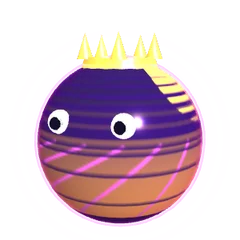
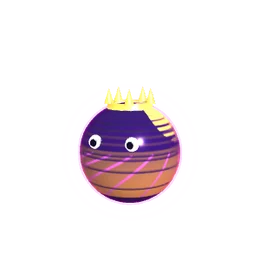
kapli-3d-test: v413 news poster, Кибер-сетка retired, no antennae on Неон and Глитч
Claude-Session: https://claude.ai/code/session_01BGg67QGFc2pPgh9iksJ3Cf

diff --git a/kapli-3d-test/js/game/08-menus.js b/kapli-3d-test/js/game/08-menus.js
@@ -88,7 +88,7 @@
     tutModal(title, body, done && !save.tourSeen ? [['tourGo', 'Дальше: тур по меню', 'btn'], ['tutOk', 'Пропустить тур', 'btn ghost']] : [['tutOk', 'В меню', 'btn']]);
   }
   function tutModal(title, body, btns) {
-    $('tutMName').textContent = title; $('tutMBody').innerHTML = body;
+    $('tutMName').textContent = title; $('tutMBody').innerHTML = body; $('tutModal').classList.remove('nw-wide');
     $('tutMActs').innerHTML = btns.map(([id, t, cls]) => `<button class="${cls}" id="${id}">${t}</button>`).join('');
     $('tutModal').hidden = false; $(btns[0][0]).focus();
   }
@@ -157,33 +157,49 @@
   const NEWS = [
     // 2.7: the first entry with cards — a hero card and a grid; each card opens big (newsBig). Older entries stay text in «Архив обновлений».
     { id: 200, ver: '2.7.0', date: '24 ноября', title: 'Характеры и живая арена', kind: 'season',
-      lead: 'Выбирай характер, переживи события арены и опробуй обновлённые скины.',
-      hero: { imgs: ['neon', 'h_valentine', 's_7', 'h_halloween', 's_25'], body: '<p>Самое большое обновление осени: характеры перед раундом, восемь событий арены, новый Случайный билд и Босс-рейд, переработанные способности, игра вдвоём по ссылке, обновлённые скины, рамки и титулы — и заметно плавнее на телефонах.</p><p>Листай карточки или открой любую, чтобы прочитать подробнее.</p>' },
+      lead: 'Характеры, события арены, игра вдвоём через интернет, эволюции скинов и новый вид меню.',
+      poster: { sub: 'Характеры · живая арена · вдвоём через интернет · эволюции скинов', foot: 'Ниже — все 16 изменений по группам',
+        tiles: [[0, '#22e6ff', 'chars', 'Характеры', 'Выбери характер перед раундом: у каждого плюс и минус'], [1, '#ff4fd8', 'events', 'Живая арена', 'Восемь событий меняют раунд прямо на ходу'],
+          [8, '#ffd23f', 'online', 'Вдвоём через интернет', '«Захват территории» и «Спина к спине» на любом расстоянии'], [9, '#b26bff', 'evo', 'Эволюции скинов', 'Скины растут в формах I–III прямо в раунде'],
+          [4, '#3dffa2', 'modes', 'Режимы обновлены', 'Классика, Хардкор, Случайный билд и Босс-рейд'], [15, '#ff9a3d', 'fps', 'Плавнее', 'Меньше рывков на телефонах — картинка та же']] },
+      hero: { imgs: ['neon', 'h_valentine', 's_7', 'h_halloween', 's_25'], body: '<p>Самое большое обновление осени. Перед раундом выбираешь характер, на арене случаются события, обновлены Классика, Хардкор, Случайный билд и Босс-рейд, режимы для двоих теперь работают через интернет. Скины растут в формах прямо в раунде, многие получили новый облик, рамки стали объёмными, титулы — лентами, вкладки перекомпонованы — и игра заметно плавнее на телефонах.</p><p>Листай карточки или открой любую, чтобы прочитать подробнее.</p>' },
       cards: [
-        { t: 'Характеры', l: 'Перед раундом выбери, каким будешь: у каждого свой плюс и минус.', v: 'chars',
+        { g: 'Игра', t: 'Характеры', l: 'Перед раундом выбери, каким будешь: у каждого свой плюс и минус.', v: 'chars',
           b: '<p>Перед каждым одиночным раундом открывается окно выбора характера.</p><ul><li><b>Хищник</b> — съеденные боты и боссы дают +15%, но таешь на 10% быстрее.</li><li><b>Собиратель</b> — крошки +30% и притягиваются издалека, боты дают −15%.</li><li><b>Танк</b> (с 10 уровня) — съесть тебя можно только будучи крупнее в 1,4 раза, но ты на 8% медленнее.</li><li><b>Призрак</b> (с 15) — боты замечают тебя вдвое позже, масса растёт на 10% медленнее.</li><li><b>Берсерк</b> (с 20) — перезарядка −15%, но щит и бонусы короче на 25%.</li></ul><p>В рейтинговых играх характеров нет.</p>' },
-        { t: 'События арены', l: 'Восемь событий меняют раунд прямо на ходу.', v: 'events',
+        { g: 'Игра', t: 'События арены', l: 'Восемь событий меняют раунд прямо на ходу.', v: 'events',
           b: '<p>О событии предупреждают заранее, а на мини-карте видно, где оно.</p><ul><li><b>Звездопад</b> — метеоры в отмеченной зоне, между ними золотые капли.</li><li><b>Разлом</b> — тянет к центру, касание центра отнимает 10% массы.</li><li><b>Ветер</b> — сносит всех в одну сторону.</li><li><b>Затмение</b> — темно, мини-карта гаснет, боты видят вдвое ближе.</li><li><b>Золотая капля</b> — убегает по полю, поймай за монеты.</li><li><b>Монетный дождь</b> — монеты сразу за каждого съеденного.</li><li><b>Землетрясение</b> — край арены горит, снаружи кольца масса тает.</li><li><b>Награда за голову</b> — самая крупная капля помечена.</li></ul>' },
-        { t: 'Случайный билд', l: 'На вехах — пауза и две карточки замены с редкостью.', v: 'rb',
-          b: '<p>На вехах массы игра встаёт на паузу и предлагает две карточки: можно заменить одну из способностей. Карточки бывают обычные, редкие, эпические и легендарные — чем реже, тем сильнее.</p>' },
-        { t: 'Босс-рейд', l: 'Пять ступеней сложности и пара колоссов-близнецов.', v: 'raid',
-          b: '<p>Перед стартом выбери ступень от I до V. Колоссы атакуют волнами, рывками и взрывами, у колосса недели — особая атака. За ступень V — титул «Гроза колоссов».</p>' },
-        { t: 'Способности', l: 'Две новые и честный баланс остальных.', v: 'abil',
-          b: '<ul><li><b>Метка</b> вместо Скачка: первое нажатие ставит метку, второе в течение 10 с переносит к ней.</li><li><b>Засада</b> вместо Маскировки: ешь капли при меньшем перевесе и получаешь больше массы.</li><li>Насыщение и Сжатие переработаны, сильные способности урезаны, слабые усилены.</li></ul>' },
-        { t: 'Вдвоём онлайн', l: 'Комната по ссылке и плавное движение соперника.', v: 'online',
-          b: '<ul><li>Код комнаты можно отправить ссылкой — по ней друг сразу попадает в комнату.</li><li>Движение второго игрока сглажено, связь сама восстанавливается.</li><li>Исправлены ник в таблице, таймер щита и вечная неуязвимость в «Захвате территории».</li></ul>' },
-        { t: 'Пауза с бафами', l: 'На паузе видно, какие улучшения ты выбрал.', v: 'pause',
-          b: '<p>В меню паузы появился блок «Твои бафы»: выбранные в раунде карточки и когда ты их взял, минусы отмечены отдельно. Бафы скорости теперь действительно ускоряют.</p>' },
-        { t: 'Обновлённые скины', l: 'Скины переделаны, годовые — с живой анимацией.', v: 'skins',
+        { g: 'Игра', t: 'Способности', l: 'Две новые и честный баланс остальных.', v: 'abil',
+          b: '<ul><li><b>Метка</b> вместо Скачка: первое нажатие ставит метку, второе в течение 10 с переносит к ней.</li><li><b>Засада</b> вместо Маскировки: ешь капли при меньшем перевесе и получаешь больше массы.</li><li>Насыщение и Сжатие переработаны, сильные способности урезаны, слабые усилены.</li><li>Купленные способности — компактной сеткой плиток.</li></ul>' },
+        { g: 'Игра', t: 'Рост и скорость', l: 'Все капли быстрее, большие растут медленнее.', v: 'grow',
+          b: '<ul><li>Все капли во всех режимах на 35% быстрее.</li><li>С 10 000 массы капля растёт медленнее и в размере, и в массе (кроме Хардкора и Босс-рейда) — большая игра стала дольше и интереснее.</li><li>Намного более тяжёлой капле достаточно накрыть центр меньшей, чтобы её съесть.</li><li>Шипы уходят с поля после 10 000, замедления стали короче.</li></ul>' },
+        { g: 'Режимы', t: 'Классика', l: 'На 50 000 капля делится — вырасти обе половины.', v: 'classic',
+          b: '<p>Классика стала сложнее и интереснее: вехи массы с наградой, боссы растут вслед за тобой, боты смелее. На 50 000 капля делится на две половины — цель вырастить обе. Капля, потерявшая половину, снова делится, когда опять дорастёт до 50 000.</p>' },
+        { g: 'Режимы', t: 'Хардкор', l: 'Двойной укус, проклятия, стаи и новые награды.', v: 'hc',
+          b: '<ul><li>Победа — удержать обе половины на 50 000 в течение 15 секунд.</li><li><b>Двойной укус</b>: две половины вместе съедают босса и делят его массу.</li><li>Проклятия раз в минуту-полторы, стаи ботов, на вехах — карточки улучшений с риском.</li><li>Стая, укусив тебя, 2,5 с не кусает снова.</li><li>Новые награды: значки лестницы 75K и 88K и фон «Трон затмения».</li></ul>' },
+        { g: 'Режимы', t: 'Случайный билд — обновлён', l: 'На вехах — пауза и две карточки замены с редкостью.', v: 'rb',
+          b: '<p>Раньше билд выпадал один раз на раунд. Теперь на пяти вехах массы игра встаёт на паузу и предлагает две карточки — можно заменить одну из способностей. Карточки бывают обычные, редкие, эпические и легендарные: чем реже, тем больше уровней на этот раунд.</p>' },
+        { g: 'Режимы', t: 'Босс-рейд — обновлён', l: 'Недельная лестница из пяти ступеней и пара колоссов.', v: 'raid',
+          b: '<p>Вместо трёх попыток в день — недельная лестница: перед стартом выбери ступень от I до V. Колоссы-близнецы с тремя фазами, атаки видно заранее, у колосса недели — особая атака. За ступень V — титул «Гроза колоссов».</p>' },
+        { g: 'Вдвоём', t: 'Вдвоём через интернет', l: '«Захват территории» и «Спина к спине» — на любом расстоянии.', v: 'online',
+          b: '<ul><li>Режимы для двоих работают через сервер игры: можно играть с другом в другом городе.</li><li>Код комнаты можно отправить ссылкой — по ней друг сразу попадает в комнату.</li><li>Движение второго игрока сглажено, связь сама восстанавливается, «Выход» завершает матч у обоих.</li><li>«Захват территории»: поле меньше, боты медленнее, крошек больше.</li></ul>' },
+        { g: 'Коллекция', t: 'Эволюции скинов', l: 'Семь скинов растут в формах I–III прямо в раунде.', v: 'evo',
+          b: '<p>Скины с эволюцией меняют форму, когда ты выполняешь цель: прямо в раунде — вспышка, кольца и звук, потом окно «Эволюция!». Любую открытую форму можно надеть в гардеробе. Живые фоны профиля «Арена Берсерка», «Двойная спираль» и «Пятидесятая волна» растут вместе со своими скинами. Скины с эволюцией отмечены значком ДНК.</p>' },
+        { g: 'Коллекция', t: 'Обновлённые скины', l: 'Новый облик, годовые — с живой анимацией.', v: 'skins',
           b: '<p>Многие скины получили новый облик. «Королева сердец», «Тыквенный король», «Пульсар» и «Вулкан» анимированы целиком: плывут сердца, мерцает свеча, бегут лучи, течёт лава. Новые скины: «Мятная капля» для новичков, «Ягодный пончик», «Аквариум», «Обсидиан» и «Охотник на боссов». Если у тебя был переделанный скин — он остался у тебя в новом виде.</p>' },
-        { t: 'Рамки и титулы', l: 'Меньше, но ценнее: объёмные рамки и титулы-ленты.', v: 'deco',
-          b: '<p>Рамки стали объёмными, как стекло, а титулы — наградными лентами под ником. Похожие награды объединены: если у тебя была убранная рамка или титул, ты получил ближайшую оставшуюся (а если она уже была — монеты).</p>' },
-        { t: 'Плавнее на телефонах', l: 'Меньше рывков даже при огромной массе.', v: 'fps',
-          b: '<p>Мы переработали отрисовку арены: одинаковые детали рисуются за один раз, шейдеры готовятся до начала раунда, игра реже останавливается на уборку памяти. Картинка та же, рывков заметно меньше.</p>' },
+        { g: 'Коллекция', t: 'Рамки и титулы', l: 'Меньше, но ценнее: объёмные рамки и титулы-ленты.', v: 'deco',
+          b: '<p>Рамки стали объёмными, как стекло, а титулы — наградными лентами. Похожие награды объединены: если у тебя была убранная рамка или титул, ты получил ближайшую оставшуюся (а если она уже была — монеты). «Мастер оружия» теперь дают за 5-й уровень всех обычных способностей.</p>' },
+        { g: 'Коллекция', t: 'Хронос 2.0', l: 'Мастерская: 23 предмета и легендарный «Скелетон».', v: 'gear',
+          b: '<p>Серия Мастерской «Хронос» собрана заново: 23 предмета вместо прежнего набора, шестерёнки сцепляются, песочные часы переворачиваются. «Скелетон» стал легендарным скином с эволюцией. Предметы, которые больше не создаются, остаются у тех, кто успел.</p>' },
+        { g: 'Меню', t: 'Вкладки и меню', l: 'Перекомпоновка экранов, группы и одна иконка на вещь.', v: 'tabs',
+          b: '<ul><li>Четыре экрана перекомпонованы, исправлены ошибки и устаревшие тексты, обновлена справка.</li><li>Профиль, гардероб и питомцы: вместо стопки ящиков — ряд групп-кнопок, плитки компактнее.</li><li>Одна иконка на каждую вещь — в магазине, гардеробе и коллекциях; арена везде стадион.</li><li>Обновления — карточками, старые версии в архиве.</li></ul>' },
+        { g: 'Меню', t: 'Пауза с бафами', l: 'На паузе видно, какие улучшения ты выбрал.', v: 'pause',
+          b: '<p>В меню паузы появился блок «Твои бафы»: выбранные в раунде карточки и когда ты их взял, минусы отмечены отдельно. Бафы скорости теперь действительно ускоряют.</p>' },
+        { g: 'Техника', t: 'Плавнее на телефонах', l: 'Меньше рывков даже при огромной массе.', v: 'fps',
+          b: '<p>Отрисовка арены переработана: одинаковые детали рисуются за один раз, шейдеры готовятся до начала раунда, игра реже останавливается на уборку памяти. Картинка та же, рывков заметно меньше.</p>' },
       ],
-      items: ['Характеры перед одиночным раундом: Хищник, Собиратель, Танк, Призрак, Берсерк.', 'Восемь событий арены.', 'Случайный билд: карточки замены с редкостью на вехах.', 'Босс-рейд: пять ступеней и пара колоссов.',
-        'Способности: Метка вместо Скачка, Засада вместо Маскировки, баланс остальных.', 'Вдвоём онлайн: комната по ссылке, плавное движение.', 'Пауза показывает выбранные бафы.', 'Обновлённые и новые скины, годовые — с живой анимацией.',
-        'Рамки «Стекло», титулы-ленты; похожие награды объединены.', 'Плавнее на телефонах.'] },
+      items: ['Характеры перед одиночным раундом.', 'Восемь событий арены.', 'Способности: Метка, Засада, баланс.', 'Все капли быстрее, большие растут медленнее.', 'Классика: деление на 50 000.', 'Хардкор: двойной укус, проклятия, стаи, награды лестницы.',
+        'Случайный билд обновлён: замена на вехах с редкостью.', 'Босс-рейд обновлён: недельная лестница из пяти ступеней.', 'Режимы для двоих через интернет, комната по ссылке.', 'Эволюции скинов I–III в раунде.', 'Обновлённые и новые скины.',
+        'Рамки «Стекло», титулы-ленты.', 'Хронос 2.0: 23 предмета, «Скелетон».', 'Вкладки перекомпонованы, одна иконка на вещь.', 'Пауза с бафами.', 'Плавнее на телефонах.'] },
     { id: 189, ver: '2.5.0', date: '14 ноября', title: 'Вдвоём: «Захват территории» и «Спина к спине», обновлённые режимы', kind: 'season',
       lead: 'Два режима для двоих на двух телефонах и большая переработка старых режимов: у каждого теперь своя цель внутри раунда.', items: [
       '«Захват территории» вместо «Испытания дня»: поле поделено границей, ешь ботов на своей половине — граница ползёт к тому, кто легче. 4 минуты, досрочная победа при 80% поля.',
@@ -413,14 +429,24 @@
     pause: () => `<div class="nw-v nw-pause"><span class="hd">⏸ Твои бафы</span><span>Скорость +6%</span><span>Магнит +10%</span><span class="ep">Хищник +18%</span><span class="bad">Вязкость −5%</span></div>`,
     skins: () => `<div class="nw-v nw-skins">${['h_valentine', 's_7', 'h_halloween'].map(f => `<img src="news/27_${f}.webp" alt="" loading="lazy">`).join('')}</div>`,
     deco: () => `<div class="nw-v nw-deco"><span class="fr fn fr-l" style="--a:#22e6ff;--b:#b26bff">Капля</span>${titleTag('tt_sk13')}</div>`,
+    grow: () => `<div class="nw-v nw-grow"><span style="--s:14"></span><span style="--s:22"></span><span style="--s:30"></span><em>×1,35 скорость</em></div>`,
+    classic: () => `<div class="nw-v nw-classic"><span>25 000</span><b>+</b><span>25 000</span><em>цель: обе по 50 000</em></div>`,
+    hc: () => `<div class="nw-v nw-hc"><span>75K</span><span>88K</span><span class="win">100K</span><em>☠ двойной укус</em></div>`,
+    evo: () => `<div class="nw-v nw-evo"><span style="--s:18">I</span><b>→</b><span style="--s:26">II</span><b>→</b><span style="--s:34">III</span></div>`,
+    gear: () => `<div class="nw-v nw-gear"><span>⚙</span><span class="sm">⚙</span><em>23 предмета</em></div>`,
+    modes: () => `<div class="nw-v nw-modes"><span>Классика</span><span>Хардкор</span><span>Случ. билд</span><span>Босс-рейд</span></div>`,
+    tabs: () => `<div class="nw-v nw-tabs"><span class="on">Скины</span><span>Питомцы</span><span>Рамки</span><span>Титулы</span><span>Фоны</span></div>`,
     fps: () => `<div class="nw-v nw-fps"><span style="--h:92"><small>было</small></span><span style="--h:38" class="now"><small>стало</small></span><em>рывков меньше</em></div>`,
   };
   let nwCur = null, nwI = 0, nwBack = null;
   function newsCards(n) {
     nwCur = n;
-    const hero = `<button type="button" class="nw-hero" data-nw="-1" aria-haspopup="dialog"><div class="nw-v nw-skins nw-wide">${n.hero.imgs.map(f => `<img src="news/27_${f}.webp" alt="" loading="lazy">`).join('')}</div>` +
-      `<div class="nw-ht"><span class="nw-tag">${n.ver} · ${NEWS_KIND[n.kind || 'update'][1].replace(/^\S+\s/, '')} · ${n.date}</span><b>${n.title}</b><span>${n.lead}</span></div></button>`;
-    return hero + `<div class="nw-grid">${n.cards.map((c, i) => `<button type="button" class="nw-card" data-nw="${i}" aria-haspopup="dialog">${NW_VIS[c.v]()}<span class="nw-ct">${c.t}</span><span class="nw-cl">${c.l}</span></button>`).join('')}</div>` +
+    // 2.7: the main card is a poster (owner's reference): the logo, the version, a line of highlights, six neon tiles that open their cards, a footer
+    const P = n.poster, hero = `<section class="nw-poster" aria-label="Обновление ${n.ver}"><div class="nw-ph"><b class="nw-logo">Капли <i>3D</i></b><span class="nw-pill">Обновление ${n.ver}</span></div>` +
+      `<p class="nw-psub">${P.sub}</p><div class="nw-tiles">${P.tiles.map(([i, col, vis, t, l]) => `<button type="button" class="nw-tile" style="--c:${col}" data-nw="${i}" aria-haspopup="dialog"><b>${t}</b><span>${l}</span>${NW_VIS[vis]()}</button>`).join('')}</div>` +
+      `<div class="nw-pf"><span>${P.foot}</span><button type="button" data-nw="-1">Обзор обновления ›</button></div></section>`;
+    const groups = [...new Set(n.cards.map(c => c.g || ''))];
+    return hero + groups.map(g => (g ? `<h4 class="nw-g">${g}</h4>` : '') + `<div class="nw-grid">${n.cards.map((c, i) => (c.g || '') !== g ? '' : `<button type="button" class="nw-card" data-nw="${i}" aria-haspopup="dialog">${NW_VIS[c.v]()}<span class="nw-ct">${c.t}</span><span class="nw-cl">${c.l}</span></button>`).join('')}</div>`).join('') +
       (newsGift(n) ? `<p class="news-gift">🎁 Подарок: ${newsGift(n)} ◆</p>` : '');
   }
   function newsBig(i) {
@@ -428,7 +454,7 @@
     let ov = $('nwOv'); if (!ov) { ov = document.createElement('div'); ov.id = 'nwOv'; ov.className = 'nw-ov'; ov.hidden = true; ov.innerHTML = '<div class="nw-big" id="nwBig" role="dialog" aria-modal="true" aria-labelledby="nwBt"></div>'; document.body.appendChild(ov); }
     nwI = i; const hero = i < 0, c = hero ? { t: `${n.ver} — ${n.title}`, l: n.lead, b: n.hero.body } : n.cards[i], N = n.cards.length;
     const vis = hero ? `<div class="nw-v nw-skins nw-wide">${n.hero.imgs.map(f => `<img src="news/27_${f}.webp" alt="">`).join('')}</div>` : NW_VIS[c.v]();
-    $('nwBig').innerHTML = vis + `<h2 id="nwBt">${c.t}</h2><p class="nw-bl">${c.l}</p><div class="nw-bb">${c.b}</div>` +
+    $('nwBig').innerHTML = vis + `<div class="nw-txt"><h2 id="nwBt">${c.t}</h2><p class="nw-bl">${c.l}</p><div class="nw-bb">${c.b}</div></div>` +
       `<div class="nw-nav"><button type="button" data-nwgo="-1" aria-label="Предыдущая карточка">‹</button><span>${hero ? 'обзор' : (i + 1) + ' из ' + N}</span><button type="button" data-nwgo="1" aria-label="Следующая карточка">›</button><button type="button" class="nw-x" data-nwx>Закрыть</button></div>`;
     ov.hidden = false; $('nwBig').scrollTop = 0; $('nwBig').querySelector('[data-nwx]').focus();
   }
@@ -471,7 +497,7 @@
   function openNews(onlyNew) {
     const list = onlyNew ? newsUnseen() : NEWS;
     tutModal(onlyNew ? 'Что нового' : 'Обновления', newsHtml(list), onlyNew ? [['newsOk', 'Понятно', 'btn'], ['newsAll', 'Все обновления', 'btn ghost']] : [['newsOk', 'Закрыть', 'btn']]);
-    $('tutMBody').scrollTop = 0;
+    $('tutModal').classList.add('nw-wide'); $('tutMBody').scrollTop = 0; $('tutModal').querySelector('.modal-card').scrollTop = 0;   // the button's focus scrolled the window to its end
   }
   $('newsBtn').addEventListener('click', () => { const fresh = newsUnseen().length; openNews(false); if (fresh) newsMarkSeen(); });
   $('tutModal').addEventListener('click', e => {

diff --git a/kapli-3d-test/css/04-features.css b/kapli-3d-test/css/04-features.css
@@ -790,3 +790,48 @@ body.raid-ink #stage { filter: brightness(.45) saturate(.7); transition: filter 
 .nw-bb { font-size: .92rem; color: #ddd8f8; } .nw-bb ul { padding-left: 18px; display: grid; gap: 5px; margin: 6px 0; } .nw-bb p { margin: 0 0 8px; }
 .nw-nav { display: flex; gap: 8px; align-items: center; } .nw-nav button { font: 700 .85rem/1 var(--body); color: #ece8ff; background: #1d1242; border: 1px solid rgba(150, 120, 255, .3); border-radius: 999px; padding: 10px 14px; cursor: pointer; }
 .nw-nav .nw-x { margin-left: auto; } .nw-nav span { color: #a59ccc; font-size: .78rem; }
+
+/* 2.7 updates: group headings, the new card visuals, and a wide big card in landscape (picture left, text right) */
+.nw-g { margin: 14px 2px 6px; font: 700 .74rem/1 var(--body); letter-spacing: .08em; text-transform: uppercase; color: #a59ccc; }
+.nw-grow { align-items: flex-end; gap: 8px; } .nw-grow span { width: calc(var(--s) * 1px); height: calc(var(--s) * 1px); border-radius: 50%; background: radial-gradient(circle at 35% 30%, #fff, #3dffa2 45%, #0a6a4a); } .nw-grow em { width: 100%; text-align: center; font-style: normal; font-size: .62rem; color: #3dffa2; }
+.nw-classic span { width: 52px; height: 52px; border-radius: 50%; display: grid; place-items: center; font: 700 .58rem/1 var(--body); background: radial-gradient(circle at 35% 30%, #ffb59a, #ff6a3d 55%, #7a1a00); } .nw-classic b { color: #ffd23f; } .nw-classic em { width: 100%; text-align: center; font-style: normal; font-size: .62rem; color: #ffd23f; }
+.nw-hc span { font: 700 .66rem/1 var(--body); padding: 7px 9px; border-radius: 8px; background: #2a0a12; box-shadow: inset 0 0 0 1px #ff2d55; color: #ffb0c0; } .nw-hc .win { background: #3a2400; box-shadow: inset 0 0 0 1px #ffd23f; color: #ffd23f; } .nw-hc em { width: 100%; text-align: center; font-style: normal; font-size: .62rem; color: #ff6a80; }
+.nw-evo { gap: 6px; } .nw-evo span { width: calc(var(--s) * 1px); height: calc(var(--s) * 1px); border-radius: 50%; display: grid; place-items: center; font: 700 .6rem/1 var(--body); background: radial-gradient(circle at 35% 30%, #ff9a9a, #c8102e 55%, #3a0008); box-shadow: 0 0 10px rgba(255, 45, 85, .5); } .nw-evo b { color: #ff4fd8; font-size: .8rem; }
+.nw-gear span { font-size: 2.2rem; color: #ffd27a; text-shadow: 0 0 10px rgba(255, 210, 122, .6); animation: nwSpin 6s linear infinite; } .nw-gear .sm { font-size: 1.4rem; animation-direction: reverse; } .nw-gear em { width: 100%; text-align: center; font-style: normal; font-size: .62rem; color: #ffd27a; }
+@keyframes nwSpin { to { transform: rotate(360deg); } } @media (prefers-reduced-motion: reduce) { .nw-gear span { animation: none; } }
+.nw-tabs { gap: 4px; } .nw-tabs span { font: 700 .6rem/1 var(--body); padding: 6px 8px; border-radius: 999px; background: #1d1242; color: #a59ccc; } .nw-tabs .on { background: rgba(34, 230, 255, .18); color: #22e6ff; }
+.nw-big { grid-template-columns: 1fr; }
+@media (min-width: 640px) and (orientation: landscape), (min-width: 900px) {
+  .nw-big { width: min(980px, 100%); grid-template-columns: minmax(220px, 40%) 1fr; grid-template-areas: "vis txt" "vis nav"; align-items: start; column-gap: 18px; padding: 16px 18px; }
+  .nw-big > .nw-v { grid-area: vis; min-height: 0; height: 100%; max-height: 360px; align-self: stretch; }
+  .nw-big > .nw-txt { grid-area: txt; } .nw-big > .nw-nav { grid-area: nav; align-self: end; }
+}
+.nw-txt { display: grid; gap: 8px; min-width: 0; }
+/* 2.7 pause: buffs as compact chips, the picked cards as smaller tiles */
+.ps-buffs { display: flex; flex-wrap: wrap; gap: 4px; }
+.ps-buffs li { display: inline-flex; gap: 6px; padding: 3px 8px; border-radius: 999px; font-size: .74rem; }
+.ps-buffs li.sub { padding: 2px 8px; font-size: .68rem; background: rgba(255, 255, 255, .03); }
+.ps-buffs .pb-n { gap: 4px; } .ps-buffs small { display: none; }
+.ps-picks { grid-template-columns: repeat(auto-fill, minmax(140px, 1fr)); gap: 4px; }
+.ps-picks li { gap: 5px; padding: 3px 6px; border-radius: 8px; } .ps-picks .pk-ic { font-size: .95rem; } .ps-picks .pk-t b { font-size: .72rem; } .ps-picks .pk-t small { font-size: .6rem; }
+
+/* 2.7 the poster (the main card of an update) */
+.nw-poster { border-radius: 20px; padding: 16px; margin-bottom: 6px; display: grid; gap: 12px; background: radial-gradient(90% 120% at 100% 0%, rgba(34, 230, 255, .18), transparent 55%), radial-gradient(120% 120% at 0% 100%, rgba(255, 79, 216, .16), transparent 55%), linear-gradient(180deg, #1c0f42, #120a2c); box-shadow: inset 0 0 0 1px rgba(255, 255, 255, .08); }
+.nw-ph { display: flex; flex-wrap: wrap; align-items: center; gap: 10px 14px; }
+.nw-logo { font: 400 clamp(1.5rem, 6vw, 2.3rem)/1 var(--display); color: #fff; letter-spacing: .01em; }
+.nw-logo i { font-style: normal; color: #22e6ff; text-shadow: 0 0 14px rgba(34, 230, 255, .7); }
+.nw-pill { font: 700 .82rem/1 var(--body); color: #ffd23f; padding: 7px 12px; border-radius: 999px; box-shadow: inset 0 0 0 2px #ffd23f, 0 0 12px rgba(255, 210, 63, .35); }
+.nw-psub { margin: 0; color: #c8bff0; font-size: .92rem; font-weight: 600; }
+.nw-tiles { display: grid; grid-template-columns: repeat(auto-fill, minmax(min(100%, 140px), 1fr)); gap: 10px; }
+.nw-tile { text-align: left; font: inherit; color: inherit; cursor: pointer; display: grid; grid-template-rows: auto auto 1fr; gap: 4px; padding: 12px; border-radius: 16px; border: 2px solid var(--c); background: rgba(12, 7, 32, .88); box-shadow: 0 0 14px color-mix(in srgb, var(--c) 40%, transparent), inset 0 0 18px color-mix(in srgb, var(--c) 12%, transparent); }
+.nw-tile:hover, .nw-tile:focus-visible { outline: none; box-shadow: 0 0 22px color-mix(in srgb, var(--c) 65%, transparent), inset 0 0 18px color-mix(in srgb, var(--c) 18%, transparent); }
+.nw-tile > b { font: 400 1rem/1.15 var(--display); color: #fff; } .nw-tile > span { font-size: .76rem; color: #c8bff0; }
+.nw-tile .nw-v { background: none; min-height: 70px; align-self: end; padding: 6px 0 0; }
+.nw-pf { display: flex; flex-wrap: wrap; justify-content: space-between; align-items: center; gap: 8px; font-size: .8rem; color: #c8bff0; }
+.nw-pf button { font: 700 .82rem/1 var(--body); color: #22e6ff; background: rgba(34, 230, 255, .12); border: 1px solid rgba(34, 230, 255, .4); border-radius: 999px; padding: 9px 14px; cursor: pointer; }
+.nw-modes { gap: 4px; } .nw-modes span { font: 700 .62rem/1 var(--body); padding: 6px 8px; border-radius: 8px; color: #3dffa2; background: rgba(61, 255, 162, .12); box-shadow: inset 0 0 0 1px rgba(61, 255, 162, .45); }
+.nw-big > .nw-v { align-content: center; }
+
+/* 2.7 the news window uses the screen: a poster of tiles instead of one narrow column */
+#tutModal.nw-wide .modal-card { width: min(960px, calc(100vw - 24px)); max-width: none; box-sizing: border-box; }
+@media (min-width: 640px) { .nw-tiles { grid-template-columns: repeat(3, minmax(0, 1fr)); } }   /* six tiles: 3 + 3, never 5 + 1 */

diff --git a/kapli-3d-test/js/game/01-config.js b/kapli-3d-test/js/game/01-config.js
@@ -568,7 +568,7 @@
     { id: 'col_sweet',  name: 'Сладкоежка',        skins: ['marmalade', 'melon', 'c_caramel', 'c_soda', 'c_peach'],       hat: 'cherry',    coins: 1000 },
     { id: 'col_space',  name: 'Космос',            skins: ['saturn', 'c_nebula', 'c_starborn', 'c_crystal'],              hat: 'planet',    coins: 1500 },
     { id: 'col_elem',   name: 'Стихии',            skins: ['ocean', 'phoenix', 'magma', 'c_marble'],                      hat: 'snowflake', coins: 1500 },
-    { id: 'col_cyber',  name: 'Кибер',             skins: ['neon', 'cyber', 'c_circuit', 'matrix', 'c_chrome'],           hat: 'propeller', coins: 1500 },
+    { id: 'col_cyber',  name: 'Кибер',             skins: ['neon', 'c_circuit', 'matrix', 'c_chrome'],           hat: 'propeller', coins: 1500 },
     { id: 'col_royal',  name: 'Королевская семья', skins: ['champion', 'titan', 'abyss'],                                 hat: 'tophat',    coins: 2000 },
     { id: 'col_nature', name: 'Природа',           skins: ['coral', 'amanita', 'c_chameleon', 'c_neontiger', 'c_lavalamp'], hat: 'sprout',  coins: 1000 },
     // effect collections: reward is a unique title
@@ -1181,7 +1181,7 @@
   // 2.7: skins reworked with the owner (the showcase). Same ids, so whoever owns one keeps the slot with the new look; renamed ones are listed once (save: deco27)
   const LOOK_KEYS_27 = ['color', 'accent', 'pattern', 'mat', 'anim', 'head', 'shine', 'emi', 'emiColor', 'flow', 'glow', 'holo', 'holoBase', 'holoSpan', 'bubbles', 'crown', 'live', 'pulse', 'rainbow'];
   const SKIN_27 = {
-    neon:        [null, 'неоновые дорожки микросхемы по тёмному телу, антенны', { color: '#0d0624', accent: '#22e6ff', pattern: 'circuit', emi: true, emiColor: '#22e6ff', mat: 'rim', anim: 'flicker', glow: true, head: 'antenna' }],
+    neon:        [null, 'неоновые дорожки микросхемы по тёмному телу', { color: '#0d0624', accent: '#22e6ff', pattern: 'circuit', emi: true, emiColor: '#22e6ff', mat: 'rim', anim: 'flicker', glow: true }],
     marmalade:   ['Аквариум', 'стеклянный шар с волнами и пузырьками', { color: '#1f8bff', accent: '#bff4ff', mat: 'glass', pattern: 'waves', flow: [.04, 0], bubbles: true, glow: true }],
     coral:       ['Мятная капля', 'свежая мятная капля, мягко дышит', { color: '#36f2c3', accent: '#e8fffb', pattern: 'gradient', anim: 'breath', glow: true }],
     c_crystal:   [null, 'голубые грани, призма и блик', { color: '#1a8cff', accent: '#9fe8ff', pattern: 'facets', head: 'prism', shine: 'bolt', anim: 'breath', glow: true }],
@@ -1202,9 +1202,10 @@
     h_halloween: [null, 'светится вырезанная ухмылка, мерцает свеча, летят искры', { color: '#ff7a00', accent: '#ffd23f', pattern: 'live', live: 'jack', head: 'stem', crown: true, glow: true }],
     h_newyear:   [null, 'ледяной кристалл, снег внутри, корона', { color: '#cfefff', accent: '#4d7cff', pattern: 'snow', flow: [0, -.08], mat: 'crystal', head: 'icecrown', shine: 'bolt', glow: true }],
     cs_q3:       [null, 'фрактал в стекле, призма', { color: '#120830', accent: '#3dffa2', pattern: 'fractal', flow: [.05, .05], mat: 'glass', head: 'prism', glow: true }],
-    cs_q1:       [null, 'сбоящий контур и антенны', { color: '#0a0a1a', accent: '#ff2d55', pattern: 'glitch', anim: 'glitch', mat: 'rim', head: 'antenna', glow: true }],
+    cs_q1:       [null, 'сбоящий контур, цифровой сбой', { color: '#0a0a1a', accent: '#ff2d55', pattern: 'glitch', anim: 'glitch', mat: 'rim', glow: true }],
   };
   const SKIN_RENAMED_27 = {};
+  { const cy = SKINS.find(k => k.id === 'cyber'); if (cy) { cy.old = true; delete cy.price; delete cy.lvl; } }   // 2.7: «Кибер-сетка» repeated «Неон» — retired
   for (const [id, [nm, sig, look]] of Object.entries(SKIN_27)) { const s = SKINS.find(k => k.id === id); if (!s) continue;
     if (nm && nm !== s.name) { SKIN_RENAMED_27[id] = s.name; s.name = nm; } s.sig = sig; LOOK_KEYS_27.forEach(k => delete s[k]); Object.assign(s, look); }
   // two new skins from the showcase: the boss hunter (challenge «Гроза гигантов») and obsidian (epic chest)

diff --git a/kapli-3d-test/js/game/02-save.js b/kapli-3d-test/js/game/02-save.js
@@ -347,6 +347,10 @@
     for (const k of ['frame', 'title']) if (save[k] && DECO_MAP_27[save[k]]) save[k] = DECO_MAP_27[save[k]];
     if ((save.chDone || []).includes('ch_giant5') && !save.skins.includes('ch_hunter')) { save.skins.push('ch_hunter'); lines.push('Испытание «Гроза гигантов» теперь даёт скин «Охотник на боссов» — он уже у тебя'); }
     for (const [id, was] of Object.entries(SKIN_RENAMED_27)) if (save.skins.includes(id)) lines.push(`Скин «${was}» → «${SKINS.find(k => k.id === id).name}»`);
+    if (save.skins.includes('cyber')) { save.skins = save.skins.filter(x => x !== 'cyber');
+      if (!save.skins.includes('neon')) { save.skins.push('neon'); lines.push('Скин «Кибер-сетка» убран (повторял «Неон») → «Неон»'); }
+      else { coins += 7200; lines.push('Скин «Кибер-сетка» убран (повторял «Неон») → +7200 ◆ (у тебя уже есть «Неон»)'); }
+      if (save.skin === 'cyber') save.skin = 'neon'; }
     arsenalTitleCheck();
     if (coins) coinsAdd(coins, 'refund');
     save.deco27 = { lines: lines.length, coins }; if (lines.length) save.notice27 = lines;
@@ -368,7 +372,7 @@
   }
   if (TEST_MODE) {
     // unlock all content for testing; achievements and challenges stay open so they can be tried
-    save.skins = SKINS.map(k => k.id);
+    save.skins = SKINS.filter(k => k.id !== 'cyber').map(k => k.id);
     save.fxOwned = FX.map(f => f.id);
     save.pets = PETS.map(pt => pt.id);
     UPG.forEach(u => save.up[u.id] = u.cost.length);

diff --git a/kapli-3d-test/sw.js b/kapli-3d-test/sw.js
@@ -1,5 +1,5 @@
 /* Капли 3D: offline mode. Own cache name, never touches the catalog's caches on the same site. */
-const CACHE = "kapli3dtest-v411";
+const CACHE = "kapli3dtest-v413";
 const CORE = ["./", "index.html", "three.min.js", "supabase.js", "manifest.json", "icon-192.png", "icon-512.png", "icon-maskable-512.png", "apple-touch-icon.png", "chat-cosmos.svg", "chat-aurora.svg", "chat-sakura.svg", "chat-drops.svg", "chat-chronos-workshop.svg", "chat-chronos-city.svg", "chat-chronos-heart.svg", "chat-duo-border.svg", "chat-duo-backtoback.svg", "js/emotes.js", "js/errlog.js", "js/loader.js", "js/game/01-config.js", "js/game/02-save.js", "js/game/03-scene.js", "js/game/03b-evo.js", "js/game/04-arena.js", "js/game/05-achievements.js", "js/game/06-abilities.js", "js/game/07-round.js", "js/game/08-menus.js", "js/game/09-sound.js", "js/game/10-items-chests.js", "js/game/11-leagues.js", "js/game/12-profile.js", "js/game/13-world.js", "js/game/14-net.js", "js/game/14b-duo.js", "js/game/14c-duo-match.js", "js/game/14d-territory.js", "js/game/14e-duoback.js", "js/game/14f-modes.js", "js/game/15-boot.js", "js/game/14g-online-server.js", "js/app.js", "css/01-base.css", "css/02-leagues.css", "css/03-chat.css", "css/04-features.css", "css/05-chat-2.css"];
 self.addEventListener("install", e => { e.waitUntil(caches.open(CACHE).then(c => c.addAll(CORE)).then(() => self.skipWaiting())); });
 self.addEventListener("activate", e => {

diff --git a/kapli-3d-test/js/game/14-net.js b/kapli-3d-test/js/game/14-net.js
@@ -1560,7 +1560,7 @@
     if (save.chaosLog.length < 12) save.chaosLog = Array.from({ length: 12 }, (_, i) => ({ id: i + 1, tier: (CHAOS_TIERS.length - 1) - (i % CHAOS_TIERS.length), pts: 100 }));
     // workshop «Хронос» items stay out: they are made in the workshop (crafted ones are kept)
     const keep = (all, mine) => [...new Set([...all.filter(x => !x.craft).map(x => x.id), ...(mine || [])])];
-    save.skins = keep(SKINS, save.skins); save.fxOwned = keep(FX, save.fxOwned); save.pets = keep(PETS, save.pets); save.decor = keep(DECOR.filter(d => !d.old), save.decor).filter(id => !(decorById(id) || {}).old);   /* 2.7: retired frames/titles are not handed out in the test build either */ save.arenas = ARENAS.map(a => a.id); save.hats = Object.keys(HATS);
+    save.skins = keep(SKINS.filter(k => k.id !== 'cyber'), save.skins).filter(id => id !== 'cyber');   /* 2.7: «Кибер-сетка» retired */ save.fxOwned = keep(FX, save.fxOwned); save.pets = keep(PETS, save.pets); save.decor = keep(DECOR.filter(d => !d.old), save.decor).filter(id => !(decorById(id) || {}).old);   /* 2.7: retired frames/titles are not handed out in the test build either */ save.arenas = ARENAS.map(a => a.id); save.hats = Object.keys(HATS);
   }
   if (TEST_MODE) { testUnlockAll(); persist(); }
   if (TEST_MODE) {

diff --git a/kapli-3d-test/js/game/03-scene.js b/kapli-3d-test/js/game/03-scene.js
@@ -1293,7 +1293,7 @@ void main() { vec2 p = vW.xz; vec3 V = cameraPosition - vW; vec2 par = V.xz / ma
   function dressBot(o) {
     const base = { id: 'bot_' + o.name, color: o.baseColor };
     const pick = list => list[(Math.random() * list.length) | 0];
-    let sk = Math.random() < .5 ? pick(SKINS.filter(k => k.id !== 'default' && !k.legend && !k.skill && !k.tut && !k.craft && !EVO[k.id])) : base;   // 2.7: no skins with evolution on bots
+    let sk = Math.random() < .5 ? pick(SKINS.filter(k => k.id !== 'default' && !k.legend && !k.skill && !k.tut && !k.craft && !k.old && !EVO[k.id])) : base;   // 2.7: no skins with evolution on bots
     o.fx = {};
     for (const slot of ['trail', 'aura', 'eat']) if (Math.random() < .3) o.fx[slot] = pick(FX.filter(f => f.slot === slot && !f.legend && !f.craft)).id;
     if (o.star) { sk = SKINS.find(k => k.id === o.star.skin && !EVO[k.id]) || (isEvo(sk) ? base : sk); o.fx = { aura: o.star.aura, trail: o.star.trail, eat: 'supernova' }; }

diff --git a/kapli-3d-test/js/game/14c-duo-match.js b/kapli-3d-test/js/game/14c-duo-match.js
@@ -74,7 +74,7 @@
     // test build only: a match with a bot as the second player, no second phone and no network
     function practice(id) {
       if (!TEST_MODE) return;
-      const sk = SKINS.filter(k => k.id !== 'default' && !k.legend && !k.skill && !k.tut && !k.craft);
+      const sk = SKINS.filter(k => k.id !== 'default' && !k.legend && !k.skill && !k.tut && !k.craft && !k.old);
       const g = { t: 'go', m: id, seed: (Math.random() * 2 ** 31) | 0, ...duoBuilds(), name: Net.nick || 'Игрок', skin: save.skin, peerName: id === 'duoback' ? 'Бот-напарник' : 'Бот-соперник', peerSkin: sk[(Math.random() * sk.length) | 0].id };
       if (rules[id] && rules[id].goExtra) Object.assign(g, rules[id].goExtra());
       botMate = true; botGoal = null; begin('host', g);

diff --git a/kapli-3d-test/js/game/13-world.js b/kapli-3d-test/js/game/13-world.js
@@ -407,7 +407,7 @@
   function prewarmChunk(budgetMs) {
     try {
       if (!prewarmJobs) { prewarmVis = Array.from({ length: 8 }, () => makeVis(new THREE.Color('#8088c0')));
-        const skins = SKINS.filter(k => !k.craft && !EVO[k.id]);   // star bots wear legendary skins too
+        const skins = SKINS.filter(k => !k.craft && !k.old && !EVO[k.id]);   // star bots wear legendary skins too
         prewarmJobs = [...skins.flatMap(sk => [0, 1, 3].map(st => [sk, st])), ...FX.filter(f => f.slot === 'aura' && !f.craft).map(f => ['aura', f.id])]; }
       const t0 = performance.now();
       while (prewarmI < prewarmJobs.length && performance.now() - t0 < budgetMs) {
